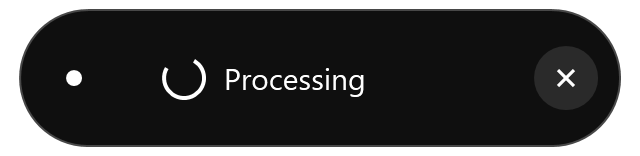
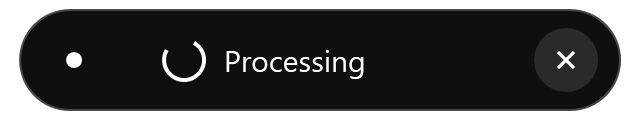
feat: slim the indicator and show readable error details

diff --git a/src/OpenAIDictation.Windows/OverlayWindow.cs b/src/OpenAIDictation.Windows/OverlayWindow.cs
@@ -3,6 +3,8 @@ using System.Windows.Interop;
 using System.Windows.Media;
 using System.Windows.Threading;
 using System.Diagnostics;
+using System.Windows.Automation;
+using System.Windows.Automation.Peers;
 
 namespace OpenAIDictation.Windows;
 
@@ -23,7 +25,7 @@ internal sealed class OverlayWindow:Window
         MouseLeftButtonUp+=(_,e)=>
         {
             var point=e.GetPosition(this);
-            var action=IndicatorLayout.HitTest(point.X,point.Y,ActualWidth,indicator.State);
+            var action=IndicatorLayout.HitTest(point.X,point.Y,ActualWidth,indicator.State,ActualHeight);
             if(action==IndicatorAction.Cancel)CancelRequested?.Invoke();else if(action==IndicatorAction.Stop)StopRequested?.Invoke();
         };
         timer=new DispatcherTimer{Interval=TimeSpan.FromMilliseconds(16)};
@@ -36,18 +38,20 @@ internal sealed class OverlayWindow:Window
     }
     public void Present(OverlayState state,nint target,string? message=null)
     {
-        indicator.State=state;indicator.Message=message??"";indicator.Signal.Reset();
+        indicator.SetState(state,message);
+        Width=state==OverlayState.Error?IndicatorLayout.ErrorWidth+20:IndicatorLayout.WindowWidth;
+        Height=state==OverlayState.Error?indicator.ErrorHeight+10:IndicatorLayout.WindowHeight;
         var monitor=NativeMethods.MonitorFromWindow(target,2);var info=new NativeMethods.MonitorInfo{Size=(uint)System.Runtime.InteropServices.Marshal.SizeOf<NativeMethods.MonitorInfo>()};
         if(!NativeMethods.GetMonitorInfo(monitor,ref info))throw new InvalidOperationException("The display could not be located.");
         uint dpiX=96,dpiY=96;NativeMethods.GetDpiForMonitor(monitor,0,out dpiX,out dpiY);
-        var bounds=IndicatorLayout.Calculate(info.Monitor.Left,info.Monitor.Right,info.Work.Top,info.Work.Bottom,dpiX==0?96:dpiX,dpiY==0?96:dpiY);
+        var bounds=IndicatorLayout.Calculate(info.Monitor.Left,info.Monitor.Right,info.Work.Top,info.Work.Bottom,dpiX==0?96:dpiX,dpiY==0?96:dpiY,state,indicator.ErrorHeight);
         nint handle=new WindowInteropHelper(this).EnsureHandle();
         Place(handle,bounds);Show();Place(handle,bounds);
         indicator.InvalidateVisual();
     }
     private static void Place(nint handle,IndicatorBounds bounds)=>NativeMethods.SetWindowPos(handle,0,bounds.Left,bounds.Top,bounds.Width,bounds.Height,0x0010|0x0004);
     public void SetLevel(float value)=>indicator.Signal.Observe(value);
-    private sealed class Indicator:FrameworkElement
+    internal sealed class Indicator:FrameworkElement
     {
         internal OverlayState State;internal double Time;internal string Message="";
         internal readonly VoiceSignal Signal=new();
@@ -58,11 +62,43 @@ internal sealed class OverlayWindow:Window
         private static readonly Pen SpinnerLine=Line(Brushes.White,2);
         private static Brush Solid(Color color){var value=new SolidColorBrush(color);value.Freeze();return value;}
         private static Pen Line(Brush brush,double thickness){var value=new Pen(brush,thickness);value.Freeze();return value;}
+        internal void SetState(OverlayState state,string? message=null)
+        {
+            State=state;Message=string.IsNullOrWhiteSpace(message)?"Dictation could not finish. Please try again.":message;
+            ToolTip=state==OverlayState.Error?Message:null;
+            AutomationProperties.SetName(this,state==OverlayState.Error?"Dictation error. "+Message:state==OverlayState.Recording?"Recording. Click to finish, or use the cancel button.":"Processing dictation.");
+            AutomationProperties.SetLiveSetting(this,state==OverlayState.Error?AutomationLiveSetting.Assertive:AutomationLiveSetting.Polite);
+            Signal.Reset();
+        }
+        private FormattedText Text(string value,double size)=>new(value,System.Globalization.CultureInfo.CurrentUICulture,FlowDirection.LeftToRight,new Typeface("Segoe UI"),size,Brushes.White,VisualTreeHelper.GetDpi(this).PixelsPerDip);
+        private FormattedText ErrorText()
+        {
+            var text=Text(Message,14);text.MaxTextWidth=IndicatorLayout.ErrorWidth-44;return text;
+        }
+        internal double ErrorHeight=>Math.Max(IndicatorLayout.ErrorMinimumHeight,ErrorText().Height+68);
+        protected override AutomationPeer OnCreateAutomationPeer()=>new IndicatorPeer(this);
+        private sealed class IndicatorPeer(Indicator owner):FrameworkElementAutomationPeer(owner)
+        {
+            protected override string GetClassNameCore()=>"Dictation status";
+            protected override AutomationControlType GetAutomationControlTypeCore()=>AutomationControlType.Text;
+            protected override string GetNameCore()=>AutomationProperties.GetName(owner);
+            protected override string GetHelpTextCore()=>owner.State==OverlayState.Error?owner.Message:base.GetHelpTextCore();
+        }
         protected override void OnRender(DrawingContext dc)
         {
+            if(State==OverlayState.Error)
+            {
+                double errorLeft=(ActualWidth-IndicatorLayout.ErrorWidth)/2;
+                dc.DrawRoundedRectangle(Surface,Border,new Rect(errorLeft,IndicatorLayout.PillTop,IndicatorLayout.ErrorWidth,ErrorHeight),18,18);
+                dc.DrawEllipse(Brushes.White,null,new Point(errorLeft+25,29),4,4);
+                dc.DrawText(Text("Dictation error",15),new Point(errorLeft+40,18));
+                dc.DrawText(ErrorText(),new Point(errorLeft+22,51));
+                DrawCancel(dc,errorLeft+IndicatorLayout.ErrorWidth-27,29);
+                return;
+            }
             double width=IndicatorLayout.PillWidth,left=(ActualWidth-width)/2;
             double centerY=IndicatorLayout.PillTop+IndicatorLayout.PillHeight/2;
-            dc.DrawRoundedRectangle(Surface,Border,new Rect(left,IndicatorLayout.PillTop,width,IndicatorLayout.PillHeight),34,34);
+            dc.DrawRoundedRectangle(Surface,Border,new Rect(left,IndicatorLayout.PillTop,width,IndicatorLayout.PillHeight),25,25);
             dc.DrawEllipse(Brushes.White,null,new Point(left+27,centerY),4,4);
             if(State==OverlayState.Recording)
             {
@@ -77,9 +113,13 @@ internal sealed class OverlayWindow:Window
                     var geometry=new StreamGeometry();using(var path=geometry.Open()){path.BeginFigure(new Point(left+82,centerY-10),false,false);path.ArcTo(new Point(left+72,centerY),new Size(10,10),0,true,SweepDirection.Clockwise,true,false);}
                     dc.DrawGeometry(null,SpinnerLine,geometry);dc.Pop();
                 }
-                var text=new FormattedText(State==OverlayState.Error?"Dictation error":"Processing",System.Globalization.CultureInfo.CurrentUICulture,FlowDirection.LeftToRight,new Typeface("Segoe UI"),15,Brushes.White,VisualTreeHelper.GetDpi(this).PixelsPerDip);dc.DrawText(text,new Point(left+(State==OverlayState.Error?87:102),centerY-text.Height/2));
+                var text=Text("Processing",15);dc.DrawText(text,new Point(left+102,centerY-text.Height/2));
             }
-            double cx=left+width-27;dc.DrawEllipse(CancelSurface,null,new Point(cx,centerY),16,16);
+            DrawCancel(dc,left+width-27,centerY);
+        }
+        private static void DrawCancel(DrawingContext dc,double cx,double centerY)
+        {
+            dc.DrawEllipse(CancelSurface,null,new Point(cx,centerY),16,16);
             dc.DrawLine(CancelLine,new Point(cx-4,centerY-4),new Point(cx+4,centerY+4));dc.DrawLine(CancelLine,new Point(cx+4,centerY-4),new Point(cx-4,centerY+4));
         }
     }

diff --git a/tests/OpenAIDictation.Windows.Tests/IndicatorTests.cs b/tests/OpenAIDictation.Windows.Tests/IndicatorTests.cs
@@ -38,23 +38,23 @@ public sealed class IndicatorTests
     {
         var signal=new VoiceSignal();signal.Observe(.12f);
         for(int i=0;i<6;i++)signal.Advance(1d/60);
-        Assert.InRange(signal.Height(4),47,VoiceSignal.PeakHeight);
+        Assert.InRange(signal.Height(4),33,VoiceSignal.PeakHeight);
         Assert.True(signal.Height(4)>signal.Height(0)*1.7);
         for(int i=0;i<12;i++)signal.Advance(1d/60);
-        Assert.InRange(signal.Height(4),53,VoiceSignal.PeakHeight);
+        Assert.InRange(signal.Height(4),38,VoiceSignal.PeakHeight);
     }
     [Fact] public void QuietSpeechStillProducesAnObviousSignal()
     {
         var signal=new VoiceSignal();signal.Observe(.03f);
         for(int i=0;i<6;i++)signal.Advance(1d/60);
-        Assert.InRange(signal.Height(4),40,VoiceSignal.PeakHeight);
-        Assert.True(signal.Height(4)>VoiceSignal.QuietHeight*15);
+        Assert.InRange(signal.Height(4),29,VoiceSignal.PeakHeight);
+        Assert.True(signal.Height(4)>VoiceSignal.QuietHeight*11);
     }
     [Fact] public void LargerPillContainsMaximumSignalWithoutClipping()
     {
         Assert.True(IndicatorLayout.WindowWidth>=IndicatorLayout.PillWidth);
         Assert.True(IndicatorLayout.WindowHeight>=IndicatorLayout.PillTop+IndicatorLayout.PillHeight);
-        Assert.True(IndicatorLayout.PillHeight-VoiceSignal.PeakHeight>=12);
+        Assert.True(IndicatorLayout.PillHeight-VoiceSignal.PeakHeight>=10);
     }
     [Theory]
     [InlineData(160,39,(int)OverlayState.Recording,(int)IndicatorAction.Stop)]
@@ -68,6 +68,36 @@ public sealed class IndicatorTests
     public void VisiblePillHasCorrectStopAndCancelTargets(double x,double y,int state,int expected)
     {
         Assert.Equal((IndicatorAction)expected,IndicatorLayout.HitTest(x,y,IndicatorLayout.WindowWidth,(OverlayState)state));
+    }
+    [Fact] public void ErrorCardExpandsWithoutMovingOffCenterOrOntoTaskbar()
+    {
+        var bounds=IndicatorLayout.Calculate(-2560,0,-200,1200,144,144,OverlayState.Error,150);
+        Assert.Equal(750,bounds.Width);Assert.Equal(240,bounds.Height);
+        Assert.Equal(-1280,bounds.Left+bounds.Width/2);
+        Assert.Equal(1188,bounds.Top+bounds.Height);
+        Assert.Equal(IndicatorAction.Cancel,IndicatorLayout.HitTest(250,149,500,OverlayState.Error,160));
+        Assert.Equal(IndicatorAction.None,IndicatorLayout.HitTest(250,158,500,OverlayState.Error,160));
+    }
+    [Fact] public void FullSafeErrorIsWrappedAndAccessibleWithoutOpeningAWindow()
+    {
+        Exception? error=null;
+        var thread=new Thread(()=>
+        {
+            try
+            {
+                string message=string.Join(" ",Enumerable.Repeat("Check your microphone connection and try recording again.",8));
+                var indicator=new OverlayWindow.Indicator();indicator.SetState(OverlayState.Error,message);
+                Assert.Equal(message,indicator.ToolTip);
+                Assert.True(indicator.ErrorHeight>IndicatorLayout.ErrorMinimumHeight);
+                var peer=System.Windows.Automation.Peers.UIElementAutomationPeer.CreatePeerForElement(indicator);
+                Assert.NotNull(peer);Assert.Contains(message,peer.GetName());Assert.Equal(message,peer.GetHelpText());
+                indicator.SetState(OverlayState.Recording);
+                Assert.Null(indicator.ToolTip);Assert.DoesNotContain(message,peer.GetName());
+            }
+            catch(Exception caught){error=caught;}
+        });
+        thread.SetApartmentState(ApartmentState.STA);thread.Start();thread.Join();
+        if(error!=null)System.Runtime.ExceptionServices.ExceptionDispatchInfo.Capture(error).Throw();
     }
     [Fact] public void PausingSmoothlyReturnsToTheQuietLine()
     {

diff --git a/src/OpenAIDictation.Windows/IndicatorLayout.cs b/src/OpenAIDictation.Windows/IndicatorLayout.cs
@@ -5,23 +5,27 @@ internal readonly record struct IndicatorBounds(int Left,int Top,int Width,int H
 /// <summary>Positions the visible indicator using physical monitor/work-area coordinates.</summary>
 internal static class IndicatorLayout
 {
-    internal const double WindowWidth=320,WindowHeight=78,TaskbarGap=8;
-    internal const double PillWidth=300,PillHeight=68,PillTop=5,CancelTargetWidth=54;
+    internal const double WindowWidth=320,WindowHeight=60,TaskbarGap=8;
+    internal const double PillWidth=300,PillHeight=50,PillTop=5,CancelTargetWidth=54;
+    internal const double ErrorWidth=480,ErrorMinimumHeight=110;
 
-    internal static IndicatorAction HitTest(double x,double y,double windowWidth,OverlayState state)
+    internal static IndicatorAction HitTest(double x,double y,double windowWidth,OverlayState state,double windowHeight=WindowHeight)
     {
-        double left=(windowWidth-PillWidth)/2;
-        if(x<left || x>left+PillWidth || y<PillTop || y>PillTop+PillHeight)return IndicatorAction.None;
+        double width=state==OverlayState.Error?ErrorWidth:PillWidth,left=(windowWidth-width)/2;
+        double bottom=state==OverlayState.Error?windowHeight-PillTop:PillTop+PillHeight;
+        if(x<left || x>left+width || y<PillTop || y>bottom)return IndicatorAction.None;
         return state!=OverlayState.Recording || x>=left+PillWidth-CancelTargetWidth
             ?IndicatorAction.Cancel:IndicatorAction.Stop;
     }
 
-    internal static IndicatorBounds Calculate(int monitorLeft,int monitorRight,int workTop,int workBottom,uint dpiX,uint dpiY)
+    internal static IndicatorBounds Calculate(int monitorLeft,int monitorRight,int workTop,int workBottom,uint dpiX,uint dpiY,OverlayState state=OverlayState.Recording,double errorHeight=ErrorMinimumHeight)
     {
         if(monitorRight<=monitorLeft || workBottom<=workTop || dpiX==0 || dpiY==0)
             throw new ArgumentOutOfRangeException(nameof(monitorRight));
         double scaleX=dpiX/96d,scaleY=dpiY/96d;
-        int width=(int)Math.Round(WindowWidth*scaleX),height=(int)Math.Round(WindowHeight*scaleY);
+        double logicalWidth=state==OverlayState.Error?ErrorWidth+20:WindowWidth;
+        double logicalHeight=state==OverlayState.Error?Math.Max(ErrorMinimumHeight,errorHeight)+10:WindowHeight;
+        int width=(int)Math.Round(logicalWidth*scaleX),height=(int)Math.Round(logicalHeight*scaleY);
         int left=(int)Math.Round(monitorLeft+((long)monitorRight-monitorLeft-width)/2d);
         int top=Math.Max(workTop,workBottom-(int)Math.Round(TaskbarGap*scaleY)-height);
         return new(left,top,width,height);

diff --git a/src/OpenAIDictation.Windows/VoiceSignal.cs b/src/OpenAIDictation.Windows/VoiceSignal.cs
@@ -4,7 +4,7 @@ namespace OpenAIDictation.Windows;
 internal sealed class VoiceSignal
 {
     internal const int BarCount=9;
-    internal const double QuietHeight=2.5,PeakHeight=56;
+    internal const double QuietHeight=2.5,PeakHeight=40;
     private static readonly double[] Shape=[.38,.58,.78,.94,1,.94,.78,.58,.38];
     private readonly double[] history=new double[BarCount];
     private double target,envelope,historyTime;
